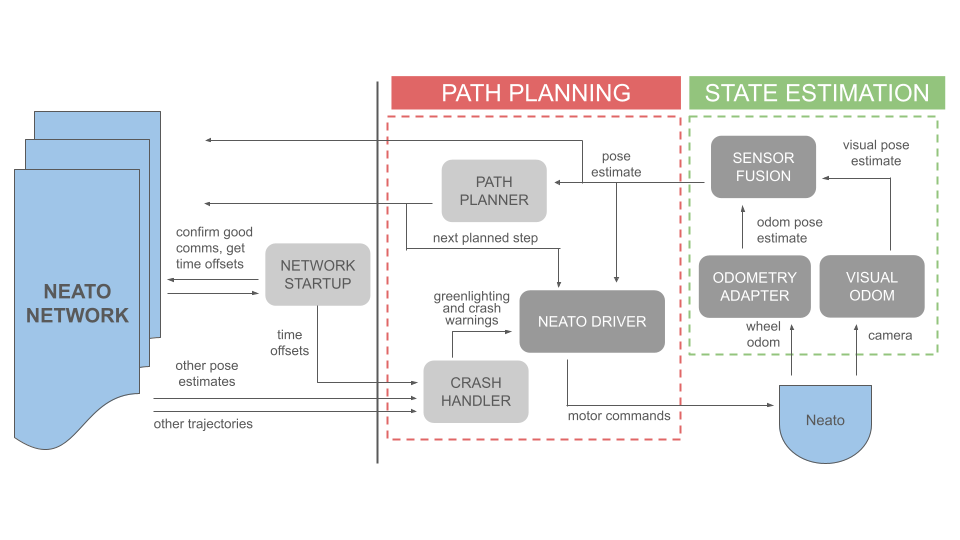
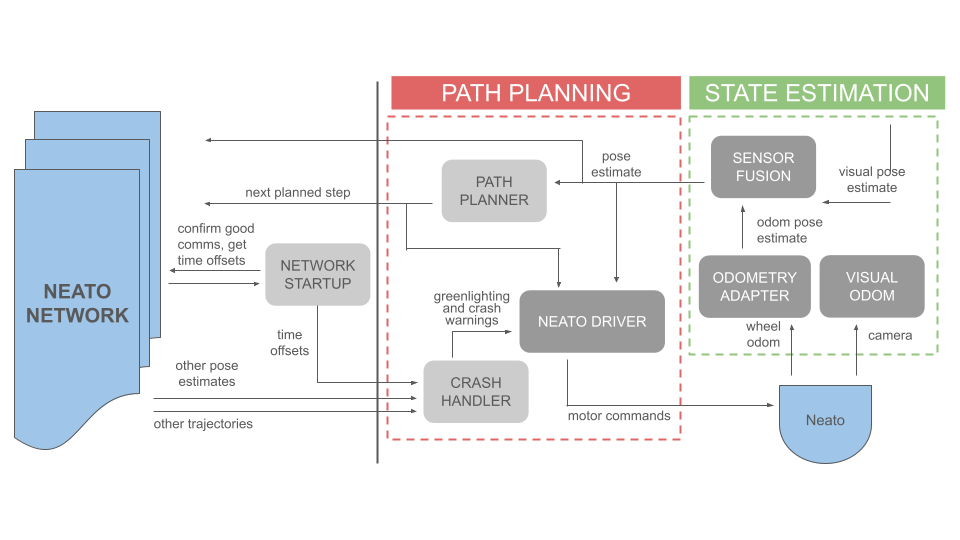
milestone three and attempt tof ix the broken diagram

diff --git a/docs/final.md b/docs/final.md
@@ -1,1 +1,28 @@
-# final
+# Milestone 3 (Final System)
+
+For the final milestone, we focused on application and integration. This means we deeply fleshed our out network communication system, implemented our path planner and crash handler on real robots, and pushed forward on our work related to visual odometry and sensor fusion. Finally, we created this system diagram
+to show off the full scope of our project:
+
+![A system diagram of a single Neato's node network interfacing with the broader Neato network. The local network is split up into two sections: state estimation and path planning.](m3_diagram.png)
+
+
+## Confirming Network Communication
+
+For the final milestone, we fully developed the network_startup node, which performs two functions: A) confirm good communication between the local robot and the rest of the fleet, and B) calculate time offsets between the local robot's system time and the rest of the fleet's system times. This was greatly beneficial
+to our crash handler, which could actually utilize the functionality of discarding stale data when planning around other fleet members' actions.
+
+We did run into some challenges related to remapping the nodes and topics in ROS2 to be unique to each local robot, while still being able to maintain inter-fleet communications. In particular, we found that local subcribers that were meant to be listening to the wider fleet network were getting their topics overwritten and therefore unable to perform their role. We got around this by finding a sneaky way to prevent a topic from being remapped despite belonging to a node within a namespace, and this allowed our network_startup and crash_handler node to perform their roles well.
+
+We also ran into challenges related to passing each robot's name as a command-line argument to its own launch file in a for loop within the bash script. Essentially, we discovered that it is very difficult to access the actual value of a launch argument in a ROS2 launch file. We did not have time to find an elegant solution to this, so we instead created separate launch files for each robot that were identical besides a "robot_name" variable that was hard-coded. While this is an unfortunately inelegant solution, it allows users to continue to launch the entire fleet using a single bash script, which was the most important feature within the launch tasks.
+
+## Path Planning
+
+Our progress on the path planning portion of the project was highly successful in the final two weeks. We successfully demonstrated our shortest-path method on a single robot at first (relying temporarily on wheel odometry-based pose estimates). When this worked, we added in obstacle avoidance capabilities and predefined obstacles on the robot's reference map. Finally, when the launch system was completed, we tested the path planning and specifically the crash handling on a fkeet of two robots. Because we performed so much testing with a single robot, we were able to debug a lot of our code before upgrading to fleetwide path planning; this made the job of debugging multiple robots significantly simpler.
+
+## Visual Odometry
+
+
+
+## Sensor Fusion
+
+Since our team had some free time at the end of this milestone, we decided to explore the mathematical implementation of an Extended Kalman Filter. We developed a ROS2 node wrapper for EKF functionality that could receive odometry data from any source (wheel odometry or visual odometry) and use it as the observation with which to update its predictions about the state of the robot's position and velocity. We specifically went with an EKF rather than a simple Kalman Filter, because an EKF includes a linearizing step that allows your model to make predicitons about nonlinear systems, i.e. positon AND velocity. While we never got the chance to fully integrate the EKF into our wider state estimation system, it was immensely educational to try out the implementation ourselves and gain a research-based understanding of why filtering and sensor fusion are so critical for state estimation (and especially position estimation).

diff --git a/docs/index.md b/docs/index.md
@@ -7,7 +7,7 @@ filename: index.md
 ## Fall 2024 Intro to Computational Robotics Final Project
 ### Contributors: Ivy, Vivian, Ariel, Charlie
 
-# Abstract
+## Abstract
 This project aims to develop and implement a decentralized path planning system for an arbitrarily-sized fleet of robots.
 We integrate sensor fusion techniques, multi-agent communication, and greedy path planning for a fully autonomous fleet navigation system.
 
